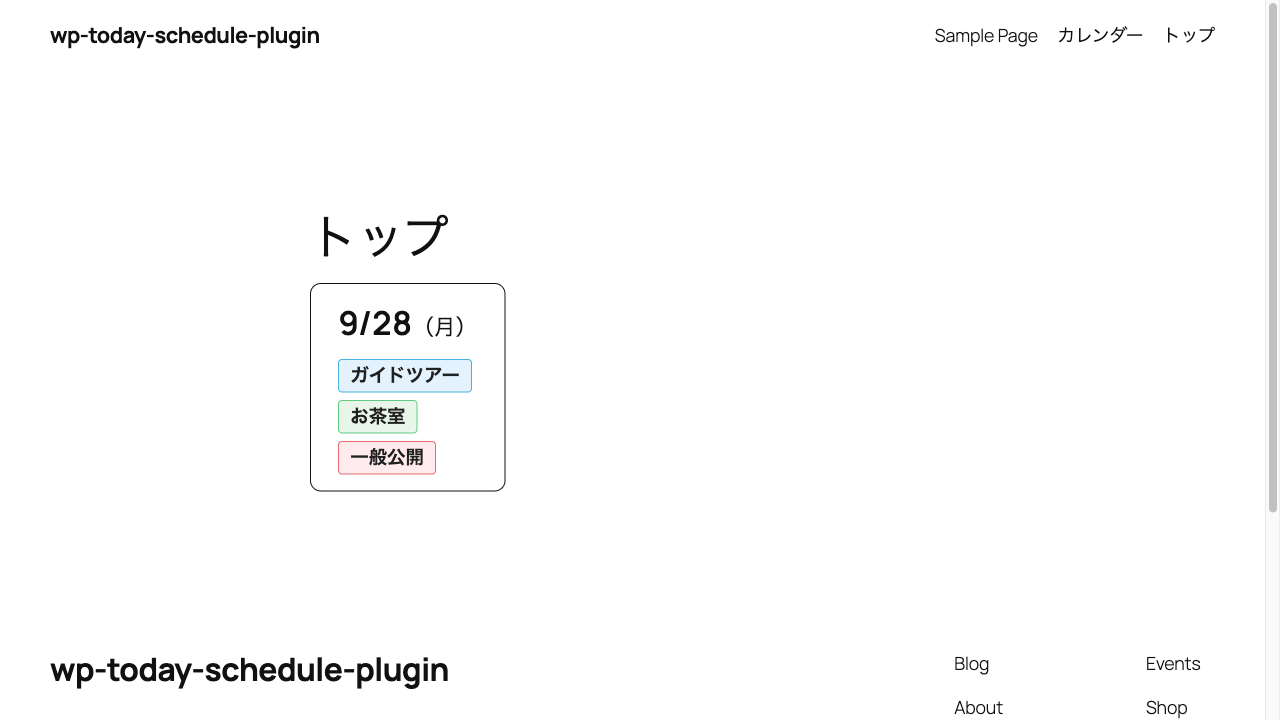
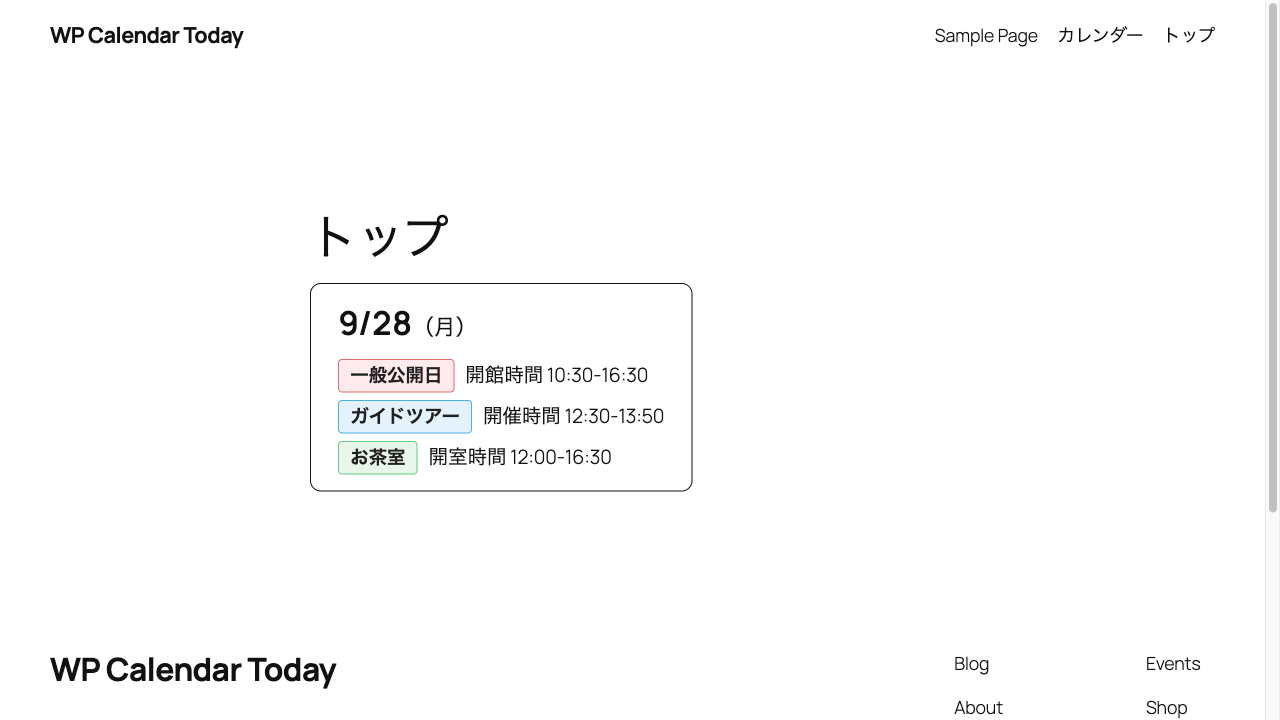
Release v0.1.1

Changed region(s): [[0.25, 0.4889, 0.5312, 0.6722], [0.0312, 0.9167, 0.375, 0.9472], [0.0312, 0.0306, 0.25, 0.0611]]

diff --git a/assets/css/wp-calendar-today-plugin.css b/assets/css/wp-calendar-today-plugin.css
@@ -1,13 +1,13 @@
 /*
- * WP Today Schedule：組み込みのテンプレートと管理者向けの表示の CSS。
+ * WP Calendar Today：組み込みのテンプレートと管理者向けの表示の CSS。
  * 色はテーマのプリセットがあれば使い、なければ既定値にする。
  */
 
-.wp-today-schedule {
+.wp-calendar-today {
 	margin: 1em 0;
 }
 
-.wp-today-schedule__badge {
+.wp-calendar-today__badge {
 	display: inline-flex;
 	flex-direction: column;
 	gap: 0.35em;
@@ -20,28 +20,28 @@
 	text-decoration: none;
 }
 
-a.wp-today-schedule__badge:hover,
-a.wp-today-schedule__badge:focus-visible {
+a.wp-calendar-today__badge:hover,
+a.wp-calendar-today__badge:focus-visible {
 	background: rgba(0, 0, 0, 0.05);
 }
 
-a.wp-today-schedule__badge:focus-visible {
+a.wp-calendar-today__badge:focus-visible {
 	outline: 2px solid currentColor;
 	outline-offset: 2px;
 }
 
-.wp-today-schedule__date {
+.wp-calendar-today__date {
 	font-size: 1.5em;
 	font-weight: 600;
 	font-variant-numeric: tabular-nums;
 }
 
-.wp-today-schedule__dow {
+.wp-calendar-today__dow {
 	font-size: 0.667em;
 	font-weight: normal;
 }
 
-.wp-today-schedule__events {
+.wp-calendar-today__events {
 	list-style: none;
 	margin: 0.25em 0 0;
 	padding: 0;
@@ -50,14 +50,14 @@ a.wp-today-schedule__badge:focus-visible {
 	gap: 0.35em;
 }
 
-.wp-today-schedule__event {
+.wp-calendar-today__event {
 	display: flex;
 	flex-wrap: wrap;
 	align-items: baseline;
 	gap: 0.5em;
 }
 
-.wp-today-schedule__label {
+.wp-calendar-today__label {
 	display: inline-block;
 	padding: 0.15em 0.6em;
 	border: 1px solid #8a8a8a;
@@ -70,24 +70,24 @@ a.wp-today-schedule__badge:focus-visible {
 	white-space: nowrap;
 }
 
-.wp-today-schedule__label--red { border-color: #e26b6b; background: #ffebee; }
-.wp-today-schedule__label--blue { border-color: #4cb0de; background: #e3f2fd; }
-.wp-today-schedule__label--green { border-color: #61cb82; background: #e8f5e9; }
+.wp-calendar-today__label--red { border-color: #e26b6b; background: #ffebee; }
+.wp-calendar-today__label--blue { border-color: #4cb0de; background: #e3f2fd; }
+.wp-calendar-today__label--green { border-color: #61cb82; background: #e8f5e9; }
 
-.wp-today-schedule__desc { font-size: 0.9em; }
-.wp-today-schedule__desc:empty { display: none; }
+.wp-calendar-today__desc { font-size: 0.9em; }
+.wp-calendar-today__desc:empty { display: none; }
 
-.wp-today-schedule__more {
+.wp-calendar-today__more {
 	font-size: 0.8em;
 }
 
-.wp-today-schedule--notice {
+.wp-calendar-today--notice {
 	padding: 0.75em 1em;
 	border: 1px dashed #c00;
 	color: #900;
 	font-size: 0.9em;
 }
 
-.wp-today-schedule--notice p {
+.wp-calendar-today--notice p {
 	margin: 0;
 }

diff --git a/wp-calendar-today-plugin.php b/wp-calendar-today-plugin.php
@@ -1,44 +1,44 @@
 <?php
 /**
- * Plugin Name:       WP Today Schedule
+ * Plugin Name:       WP Calendar Today
  * Plugin URI:        https://github.com/noguchi/wp-calendar-today-plugin
  * Description:       カレンダープラグイン「Event Calendar Maker（無料版）」に登録した今日の予定を表示するショートコード。
- * Version:           0.1.0
+ * Version:           0.1.1
  * Requires at least: 6.5
  * Requires PHP:      8.1
  * Author:            Shingo Noguchi
  * License:           GPL-2.0-or-later
  * License URI:       https://www.gnu.org/licenses/gpl-2.0.html
- * Text Domain:       wp-today-schedule-plugin
+ * Text Domain:       wp-calendar-today-plugin
  *
- * @package WP_Today_Schedule
+ * @package WP_Calendar_Today
  */
 
 defined( 'ABSPATH' ) || exit;
 
-const WP_TODAY_SCHEDULE_VERSION = '0.1.0';
+const WP_CALENDAR_TODAY_VERSION = '0.1.1';
 
 require_once __DIR__ . '/includes/class-calendar-client.php';
 require_once __DIR__ . '/includes/class-template.php';
 
-add_action( 'admin_notices', 'wp_today_schedule_admin_notice' );
-add_action( 'init', 'wp_today_schedule_register_shortcode' );
+add_action( 'admin_notices', 'wp_calendar_today_admin_notice' );
+add_action( 'init', 'wp_calendar_today_register_shortcode' );
 
 /**
  * カレンダープラグインが有効でないとき、管理者に通知する。
  */
-function wp_today_schedule_admin_notice(): void {
+function wp_calendar_today_admin_notice(): void {
 	if ( class_exists( 'LimitedCalendar8bit' ) || ! current_user_can( 'manage_options' ) ) {
 		return;
 	}
-	echo '<div class="notice notice-warning"><p>' . esc_html( 'WP Today Schedule：カレンダープラグイン（Event Calendar Maker）が有効になっていません。' ) . '</p></div>';
+	echo '<div class="notice notice-warning"><p>' . esc_html( 'WP Calendar Today：カレンダープラグイン（Event Calendar Maker）が有効になっていません。' ) . '</p></div>';
 }
 
 /**
  * ショートコードを登録する。
  */
-function wp_today_schedule_register_shortcode(): void {
-	add_shortcode( 'today_schedule', 'wp_today_schedule_shortcode' );
+function wp_calendar_today_register_shortcode(): void {
+	add_shortcode( 'today_schedule', 'wp_calendar_today_shortcode' );
 }
 
 /**
@@ -48,7 +48,7 @@ function wp_today_schedule_register_shortcode(): void {
  * @param string|null                  $content 開始タグと終了タグの間の HTML.
  * @return string
  */
-function wp_today_schedule_shortcode( $atts, $content = '' ): string {
+function wp_calendar_today_shortcode( $atts, $content = '' ): string {
 	$atts  = shortcode_atts(
 		array(
 			'hash'  => '',
@@ -62,19 +62,19 @@ function wp_today_schedule_shortcode( $atts, $content = '' ): string {
 	$link  = esc_url_raw( (string) $atts['link'] );
 	$limit = absint( $atts['limit'] );
 
-	$client = new WP_Today_Schedule_Calendar_Client();
+	$client = new WP_Calendar_Today_Calendar_Client();
 	$today  = $client->today( $hash, current_datetime() );
 	if ( is_wp_error( $today ) ) {
-		return wp_today_schedule_notice( $today->get_error_message() );
+		return wp_calendar_today_notice( $today->get_error_message() );
 	}
 
-	$template = wp_today_schedule_template( (string) $content );
+	$template = wp_calendar_today_template( (string) $content );
 	if ( '' === $template ) {
-		wp_today_schedule_enqueue_style();
-		return WP_Today_Schedule_Template::render( WP_Today_Schedule_Template::builtin( $link ), $today, $limit );
+		wp_calendar_today_enqueue_style();
+		return WP_Calendar_Today_Template::render( WP_Calendar_Today_Template::builtin( $link ), $today, $limit );
 	}
 
-	$html       = WP_Today_Schedule_Template::render( $template, $today, $limit );
+	$html       = WP_Calendar_Today_Template::render( $template, $today, $limit );
 	$post       = get_post();
 	$author     = $post ? (int) $post->post_author : 0;
 	$unfiltered = $author > 0 && user_can( $author, 'unfiltered_html' );
@@ -89,7 +89,7 @@ function wp_today_schedule_shortcode( $atts, $content = '' ): string {
  * @param string $content 開始タグと終了タグの間の HTML.
  * @return string
  */
-function wp_today_schedule_template( string $content ): string {
+function wp_calendar_today_template( string $content ): string {
 	$rest = preg_replace( '#<\s*/?\s*p\s*>|<\s*br\s*/?\s*>#i', '', $content );
 	return '' === trim( (string) $rest ) ? '' : $content;
 }
@@ -100,17 +100,17 @@ function wp_today_schedule_template( string $content ): string {
  * @param string $message 原因.
  * @return string
  */
-function wp_today_schedule_notice( string $message ): string {
+function wp_calendar_today_notice( string $message ): string {
 	if ( ! current_user_can( 'manage_options' ) ) {
 		return '';
 	}
-	wp_today_schedule_enqueue_style();
-	return '<div class="wp-today-schedule wp-today-schedule--notice"><p>' . esc_html( '本日の予定：' . $message ) . '</p><p>' . esc_html( 'このメッセージは管理者にだけ表示しています。' ) . '</p></div>';
+	wp_calendar_today_enqueue_style();
+	return '<div class="wp-calendar-today wp-calendar-today--notice"><p>' . esc_html( '本日の予定：' . $message ) . '</p><p>' . esc_html( 'このメッセージは管理者にだけ表示しています。' ) . '</p></div>';
 }
 
 /**
  * プラグインの CSS を読み込む。ショートコードの展開は wp_head の後なので、フッターで出力される。
  */
-function wp_today_schedule_enqueue_style(): void {
-	wp_enqueue_style( 'wp-today-schedule-plugin', plugins_url( 'assets/css/wp-today-schedule-plugin.css', __FILE__ ), array(), WP_TODAY_SCHEDULE_VERSION );
+function wp_calendar_today_enqueue_style(): void {
+	wp_enqueue_style( 'wp-calendar-today-plugin', plugins_url( 'assets/css/wp-calendar-today-plugin.css', __FILE__ ), array(), WP_CALENDAR_TODAY_VERSION );
 }

diff --git a/includes/class-template.php b/includes/class-template.php
@@ -2,7 +2,7 @@
 /**
  * テンプレートのプレースホルダーと区間を今日の値で埋める。
  *
- * @package WP_Today_Schedule
+ * @package WP_Calendar_Today
  */
 
 defined( 'ABSPATH' ) || exit;
@@ -10,12 +10,12 @@ defined( 'ABSPATH' ) || exit;
 /**
  * テンプレートエンジン。WordPress に依存するのはエスケープ関数だけにする。
  */
-class WP_Today_Schedule_Template {
+class WP_Calendar_Today_Template {
 
 	/**
 	 * 組み込みのテンプレートの中身（外枠を除く）。
 	 */
-	const BUILTIN_BODY = '<time class="wp-today-schedule__date" datetime="{date}">{month}/{day}<span class="wp-today-schedule__dow">（{weekday}{holiday}・祝{/holiday}）</span></time>{has_events}<ul class="wp-today-schedule__events">{events}<li class="wp-today-schedule__event"><span class="wp-today-schedule__label wp-today-schedule__label--{event_color}">{event_name}</span><span class="wp-today-schedule__desc">{event_description}</span></li>{/events}</ul>{/has_events}{more}<span class="wp-today-schedule__more">ほか {more_count} 件</span>{/more}';
+	const BUILTIN_BODY = '<time class="wp-calendar-today__date" datetime="{date}">{month}/{day}<span class="wp-calendar-today__dow">（{weekday}{holiday}・祝{/holiday}）</span></time>{has_events}<ul class="wp-calendar-today__events">{events}<li class="wp-calendar-today__event"><span class="wp-calendar-today__label wp-calendar-today__label--{event_color}">{event_name}</span><span class="wp-calendar-today__desc">{event_description}</span></li>{/events}</ul>{/has_events}{more}<span class="wp-calendar-today__more">ほか {more_count} 件</span>{/more}';
 
 	/**
 	 * 組み込みのテンプレートを返す。link が空なら外枠を div にする。
@@ -25,9 +25,9 @@ class WP_Today_Schedule_Template {
 	 */
 	public static function builtin( string $link ): string {
 		if ( '' === $link ) {
-			return '<div class="wp-today-schedule"><div class="wp-today-schedule__badge">' . self::BUILTIN_BODY . '</div></div>';
+			return '<div class="wp-calendar-today"><div class="wp-calendar-today__badge">' . self::BUILTIN_BODY . '</div></div>';
 		}
-		return '<div class="wp-today-schedule"><a class="wp-today-schedule__badge" href="' . esc_url( $link ) . '">' . self::BUILTIN_BODY . '</a></div>';
+		return '<div class="wp-calendar-today"><a class="wp-calendar-today__badge" href="' . esc_url( $link ) . '">' . self::BUILTIN_BODY . '</a></div>';
 	}
 
 	/**

diff --git a/includes/class-calendar-client.php b/includes/class-calendar-client.php
@@ -2,7 +2,7 @@
 /**
  * カレンダープラグインの REST から今日の予定を取る。
  *
- * @package WP_Today_Schedule
+ * @package WP_Calendar_Today
  */
 
 defined( 'ABSPATH' ) || exit;
@@ -10,9 +10,9 @@ defined( 'ABSPATH' ) || exit;
 /**
  * 今月分を REST で取って transient に保存し、今日の要素だけを返す。
  */
-class WP_Today_Schedule_Calendar_Client {
+class WP_Calendar_Today_Calendar_Client {
 
-	const TRANSIENT_PREFIX = 'wp_today_schedule_';
+	const TRANSIENT_PREFIX = 'wp_calendar_today_';
 	const CACHE_TTL        = 5;
 	const ROUTE            = '/8bit-limited-calendars/v1/calendar';
 
@@ -88,7 +88,7 @@ class WP_Today_Schedule_Calendar_Client {
 		}
 
 		$failed = static function ( string $reason ): WP_Error {
-			error_log( 'wp-today-schedule-plugin: ' . $reason ); // phpcs:ignore WordPress.PHP.DevelopmentFunctions.error_log_error_log -- 取得の失敗を記録する。
+			error_log( 'wp-calendar-today-plugin: ' . $reason ); // phpcs:ignore WordPress.PHP.DevelopmentFunctions.error_log_error_log -- 取得の失敗を記録する。
 			return new WP_Error( 'fetch_failed', $reason );
 		};
 		try {

diff --git a/README.md b/README.md
@@ -1,4 +1,4 @@
-# WP Today Schedule
+# WP Calendar Today
 
 カレンダープラグイン「[Event Calendar Maker](https://wordpress-plugin.8bit.co.jp/calendar/)」に登録した今日の予定を、トップページなどに小さなバッジで表示する WordPress プラグインです。
 
@@ -16,7 +16,7 @@
 
 ## インストール
 
-1. [Releases](https://github.com/noguchi/wp-calendar-today-plugin/releases) から `wp-today-schedule-plugin.zip` をダウンロードします。
+1. [Releases](https://github.com/noguchi/wp-calendar-today-plugin/releases) から `wp-calendar-today-plugin.zip` をダウンロードします。
 2. 管理画面の「プラグイン」>「新規プラグインを追加」>「プラグインのアップロード」で ZIP を選び、インストールします。
 3. 「有効化」を押します。
 
